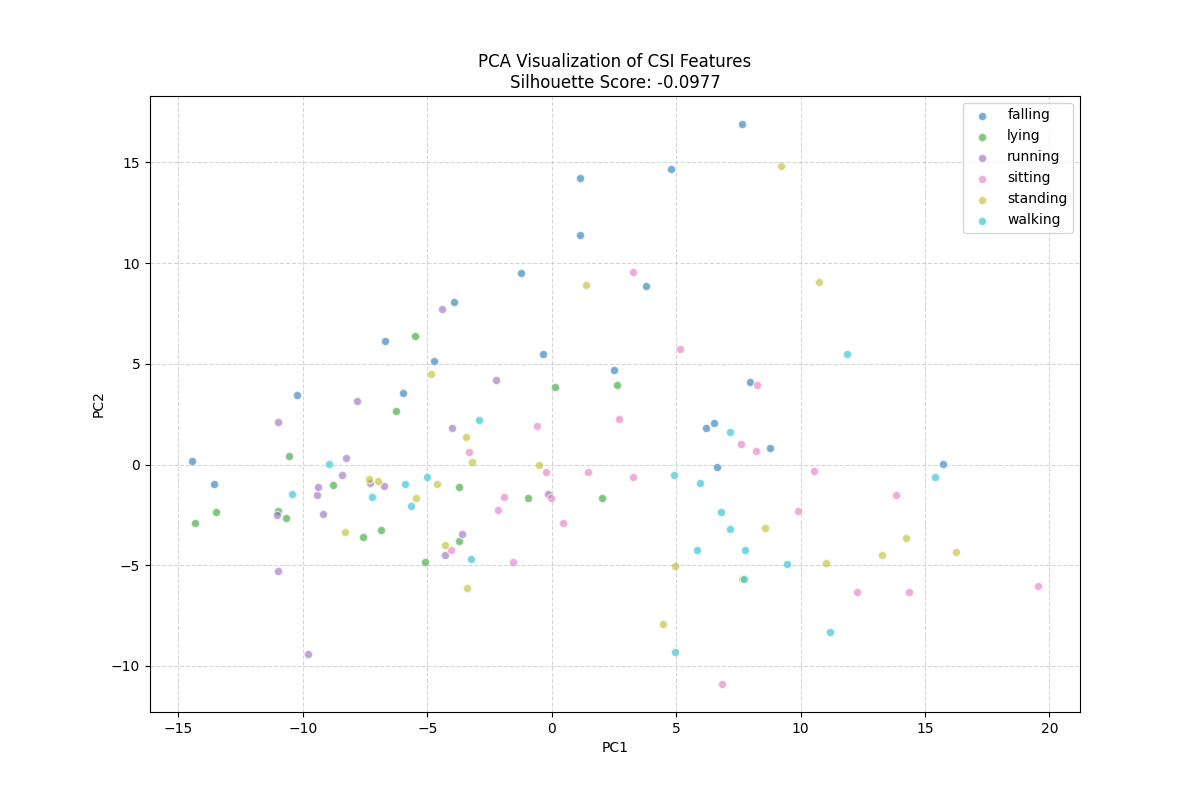
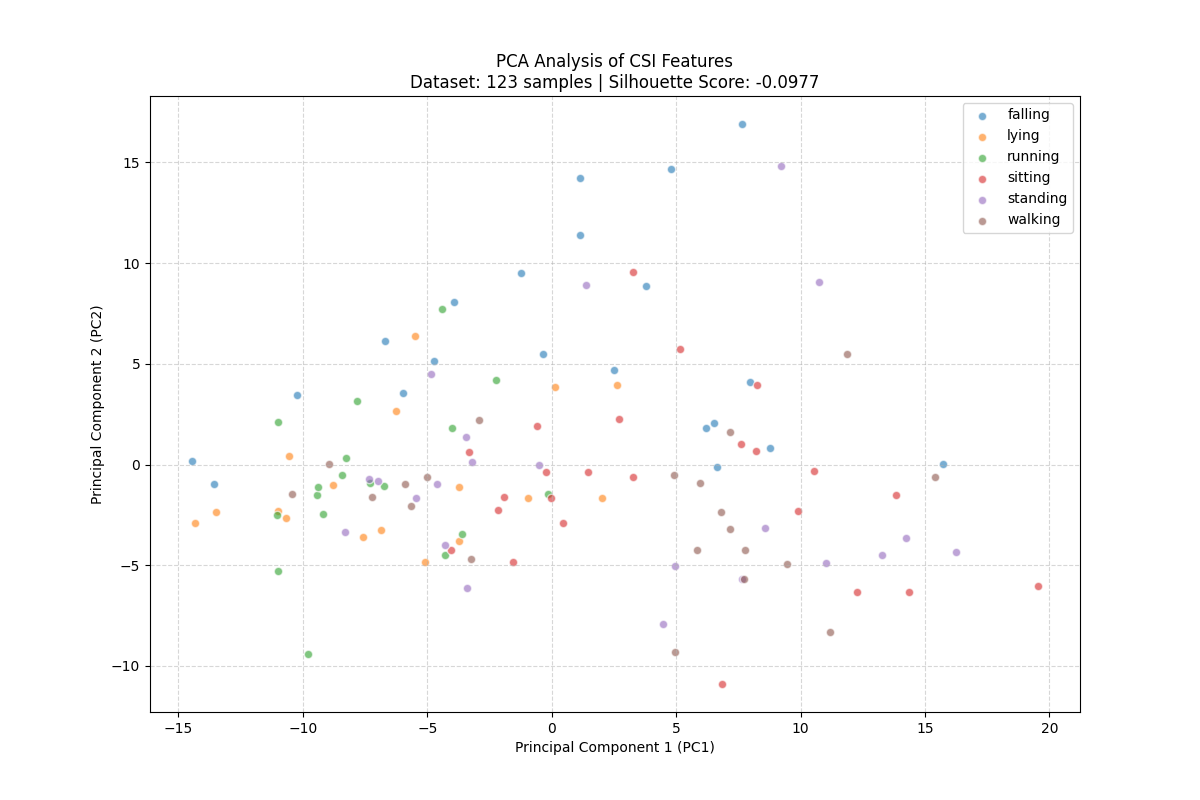
feat(phase5): add classifier.verify

diff --git a/classifier/verify.py b/classifier/verify.py
@@ -1,0 +1,103 @@
+import os
+import pathlib
+import numpy as np
+import matplotlib.pyplot as plt
+from sklearn.decomposition import PCA
+from sklearn.preprocessing import StandardScaler
+from sklearn.cluster import KMeans
+from sklearn.metrics import silhouette_score
+import logging
+
+# Ensure output directory exists
+os.makedirs("artifacts", exist_ok=True)
+
+logging.basicConfig(level=logging.INFO, format='%(asctime)s %(levelname)s %(message)s')
+logger = logging.getLogger("verify")
+
+DATA_DIR = "data/activities"
+TARGET_SUBCARRIERS = 52
+TARGET_TIMESTEPS = 50
+
+def load_data():
+    X = []
+    labels = []
+    class_names = []
+    
+    root = pathlib.Path(DATA_DIR)
+    if not root.exists():
+        logger.error(f"Data directory {DATA_DIR} not found!")
+        return [], [], []
+
+    folders = sorted([f for f in root.iterdir() if f.is_dir()])
+    
+    for idx, folder in enumerate(folders):
+        class_names.append(folder.name)
+        npy_files = list(folder.rglob("*.npy"))
+        logger.info(f"Loading {len(npy_files)} files from {folder.name}...")
+        
+        for npy_path in npy_files:
+            try:
+                data = np.load(npy_path) # (N, T, C)
+                if data.ndim != 3: continue
+                
+                for i in range(data.shape[0]):
+                    sample = data[i]
+                    # Center crop to target size
+                    t_start = max(0, (sample.shape[0] - TARGET_TIMESTEPS) // 2)
+                    c_start = max(0, (sample.shape[1] - TARGET_SUBCARRIERS) // 2)
+                    sample = sample[t_start:t_start+TARGET_TIMESTEPS, c_start:c_start+TARGET_SUBCARRIERS]
+                    
+                    # Statistical features (Mean, Std, Max, Min)
+                    mean_feat = np.mean(sample, axis=0) 
+                    std_feat = np.std(sample, axis=0)
+                    X.append(np.concatenate([mean_feat, std_feat]))
+                    labels.append(idx)
+            except Exception as e:
+                logger.warning(f"Error loading {npy_path}: {e}")
+                
+    return np.array(X), np.array(labels), class_names
+
+def main():
+    X, y, class_names = load_data()
+    if len(X) == 0:
+        logger.error("No data found! Please collect some data first.")
+        return
+
+    logger.info(f"Analyzing {len(X)} samples across {len(class_names)} classes...")
+
+    # 1. Standardize
+    scaler = StandardScaler()
+    X_scaled = scaler.fit_transform(X)
+
+    # 2. PCA for visualization
+    pca = PCA(n_components=2)
+    X_pca = pca.fit_transform(X_scaled)
+
+    # 3. Calculate Clustering Quality
+    sil_score = silhouette_score(X_scaled, y)
+    logger.info(f"Silhouette Score: {sil_score:.4f}")
+
+    # 4. Plotting
+    plt.figure(figsize=(12, 8))
+    # Use a fixed color map
+    colors = plt.cm.get_cmap('tab10')
+    
+    for i, name in enumerate(class_names):
+        mask = (y == i)
+        plt.scatter(X_pca[mask, 0], X_pca[mask, 1], label=name, color=colors(i), alpha=0.6, edgecolors='w')
+
+    plt.title(f"PCA Analysis of CSI Features\nDataset: {len(X)} samples | Silhouette Score: {sil_score:.4f}")
+    plt.xlabel("Principal Component 1 (PC1)")
+    plt.ylabel("Principal Component 2 (PC2)")
+    plt.legend()
+    plt.grid(True, linestyle='--', alpha=0.5)
+    
+    output_path = "artifacts/feature_verification.png"
+    plt.savefig(output_path)
+    logger.info(f"Analysis complete. Plot saved to {output_path}")
+    print(f"\n[SUMMARY] Silhouette Score: {sil_score:.4f}")
+    print(f"A score < 0 means features are heavily overlapping (Neural Network required).")
+    print(f"A score > 0.5 means features are easily separable by simple algorithms.")
+
+if __name__ == "__main__":
+    main()
